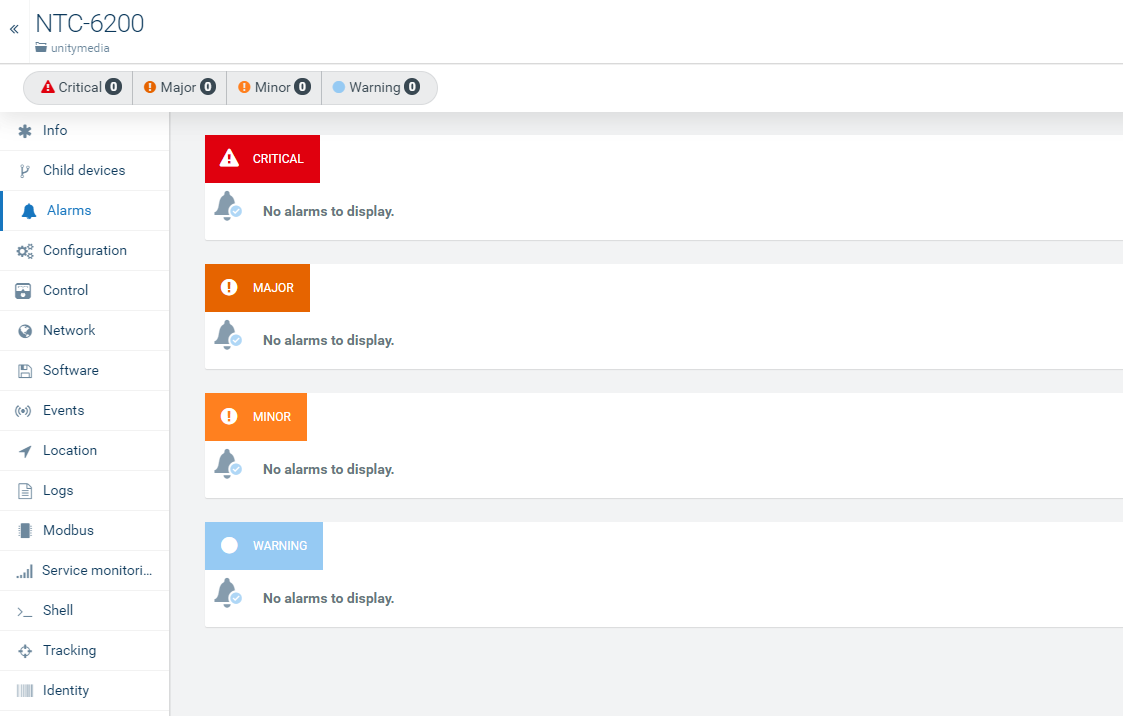
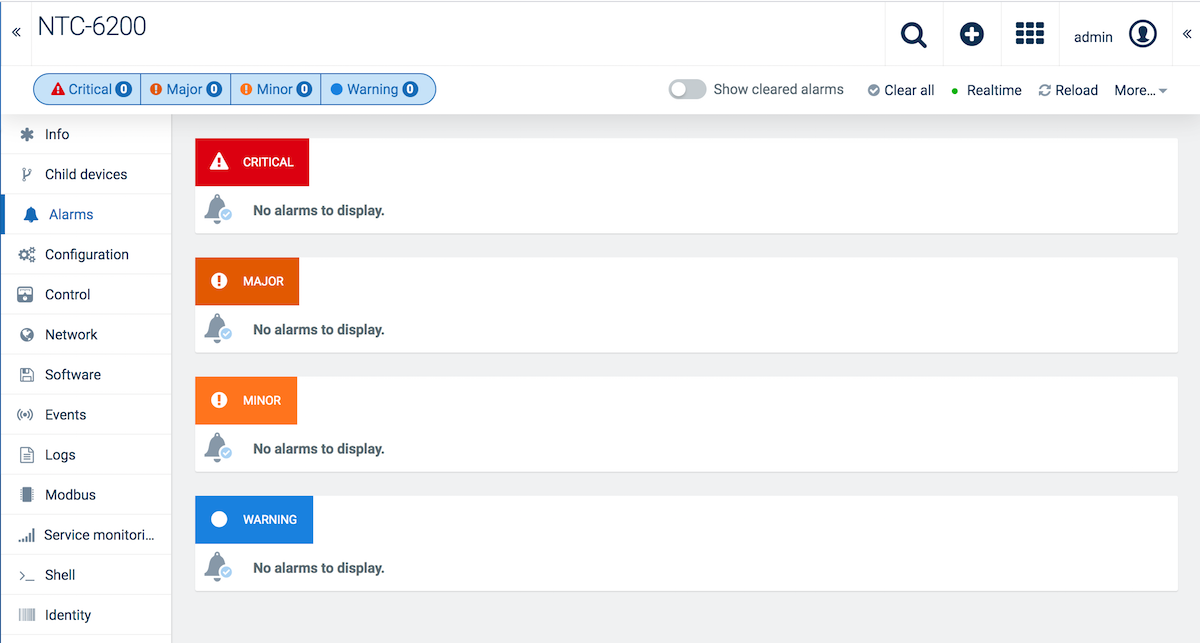
modified several screenshots; added new section on scada svg file

diff --git a/content/users-guide/optional-services-bundle/cloud-fieldbus.md b/content/users-guide/optional-services-bundle/cloud-fieldbus.md
@@ -15,6 +15,7 @@ Cloud Fieldbus is supported out of the box by the following terminals:
 * [Pssystec SMARTbox Mini](https://devicepartnerportal.softwareag.com/web/devices/10043) for Modbus/RTU
 * [Pssystec SMARTbox DP](https://devicepartnerportal.softwareag.com/web/devices/10041) for Profibus
 * [NetComm Wireless NTC-6200](https://devicepartnerportal.softwareag.com/web/devices/10034) for Modbus/TCP and Modbus/RTU
+* [Casa Systems (NetComm) NTC-220 series](/device-tutorials/netcomm-router/) for Modbus/TCP and Modbus/RTU
 
 For further information on supported devices refer to the [Cumulocity IoT Device Partner Portal](https://devicepartnerportal.softwareag.com/web/#/) which offers an extensive [collection of devices](https://devicepartnerportal.softwareag.com/web/#/devices) with guaranteed plug-and-play compatibility and full functional support in the Cumulocity IoT platform. 
 
@@ -33,10 +34,10 @@ To connect a Modbus/RTU device, follow these steps:
 3. Check the serial communication settings of the device according to the instructions provided with the Modbus device (i.e. baud rates and communication protocol). These have to match with all devices on the bus.
 4. In the Device Management application, click **All devices** in the **Devices** menu in the navigator. In the device list, select the terminal and switch to the **Modbus** tab.
 5. Change the communication settings shown in the **Serial communication** section to match the settings on the bus, if needed.
-6. Change the transmit rate and the polling rate according to your requirements. The polling rate is the frequency at which the Modbus devices are polled for changes. The transmit rate is the frequency where measurements are sent to Cumulocity IoT.
+6. Change the transmit rate and the polling rate according to your requirements. The transmit rate is the frequency where measurements are sent to Cumulocity IoT. The polling rate is the frequency at which the Modbus devices are polled for changes. 
 7. Click **Save** to save your settings.
 
-![Add Modbus device](/images/users-guide/cloud-fieldbus/fieldbus-new-modbus-rtu.png)
+![Add Modbus device](/images/users-guide/cloud-fieldbus/fieldbus-modbus-rtu.png)
 
 **To add child devices**
 
@@ -54,10 +55,10 @@ To connect a Modbus/TCP device, follow these steps:
 2. Check the network settings of the device using the instructions provided with the device.
 3. In the Device Management application, click **All devices** in the **Devices** menu in the navigator. In the device list, select the terminal and switch to the **Network** tab. Verify that the LAN settings of the terminal match the settings of the device so that TCP communication can be established.
 4. Switch to the **Modbus** tab.
-5. Change the transmit rate and the polling rate according to your requirements. The polling rate is the frequency at which the Modbus devices are polled for changes. The transmit rate is the frequency at which measurements are sent to Cumulocity IoT.
+5. Change the transmit rate and the polling rate according to your requirements. The transmit rate is the frequency at which measurements are sent to Cumulocity IoT. The polling rate is the frequency at which the Modbus devices are polled for changes. 
 6. Click **Save** to save your settings.
 
-![Add Modbus device](/images/users-guide/cloud-fieldbus/fieldbus-new-modbus-tcp.png)
+![Add Modbus device](/images/users-guide/cloud-fieldbus/fieldbus-modbus-tcp.png)
 
 **To add child devices**
 
@@ -67,7 +68,7 @@ To connect a Modbus/TCP device, follow these steps:
 
 Cumulocity IoT will now send a notification to the Modbus terminal that a new device is ready to be managed. This may take a few seconds.
 
-> **Info:** It is assumed that all Modbus/TCP communication uses the standard Modbus/TCP port 502. On the NTC-6200, the port to be used can be configured through the variable "service.cumulocity.plugin.lua__modbus.port" via the device shell or the local web user interface of the device.
+> **Info:** It is assumed that all Modbus/TCP communication uses the standard Modbus/TCP port 502. On the NTC-6200 and NTC 220 series, the port to be used can be configured through the variable "service.cumulocity.modbus.port" via the device shell or the local web user interface of the device.
 
 #### Connecting CAN devices
 
@@ -171,7 +172,7 @@ In the widget, the selected coils and registers are grouped into display categor
 
 ![Use the Fieldbus Device Widget](/images/users-guide/cloud-fieldbus/fieldbus-modbus-status.png)
 
-Registers and coils that can be changed are represented by active widgets. For example, in the screenshot above, the "Master switch" coil and the "Mode" register are editable. If you click a switch, an operation to change the corresponding coil or register is sent to the terminal. Similar, if you change a value and click **Set**, an operation is created. The terminal will then carry out the configuration change on the device, as requested through the operation. While the operation is being processed, a progress indicator is shown.
+Registers and coils that can be changed are represented by active widgets. If you click a switch, an operation to change the corresponding coil or register is sent to the terminal. Similar, if you change a value and click **Set**, an operation is created. The terminal will then carry out the configuration change on the device, as requested through the operation. While the operation is being processed, a progress indicator is shown.
 
 #### <a name="scada"></a>Monitoring the device status using the SCADA widget
 
